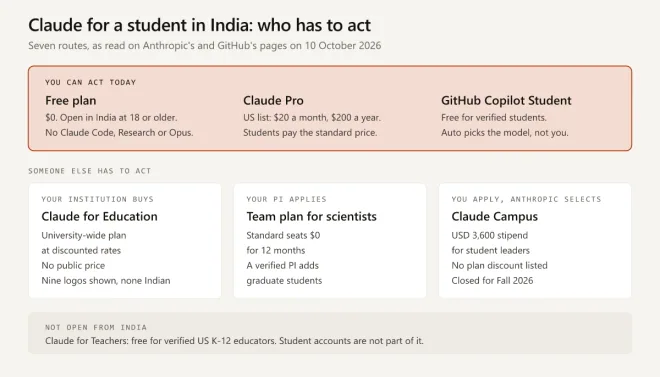
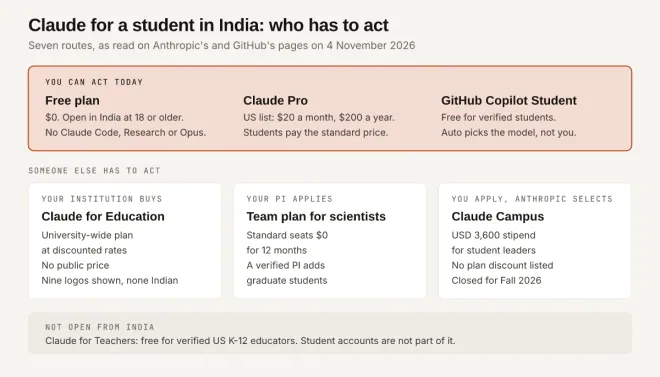
Refresh 6 posts: claude-student-discount-india, elevenlabs, notion AI, llm-optimization, seo-ranking, CI analysis
Final commit of lane G: claude-student-discount-india (Pro/Max/Ultra wording,
Artifact promo removed, dates and diagram restamped), image manifest from the
build, and the lane-g handoff. chatgpt-go-free-india and chatgpt-go-vs-gemini
were skipped: OpenAI's pages return a Cloudflare challenge to the cloud VM.

Claude-Session: https://claude.ai/code/session_017hxqprqjDNvD1JShTkYFD1

diff --git a/src/content/blog/claude-student-discount-india.md b/src/content/blog/claude-student-discount-india.md
@@ -1,30 +1,31 @@
 ---
 title: "Claude Student Discount India: What Exists and What Doesn't"
-description: "As of 10 October 2026 there is no Claude student discount Indian students can claim on Pro or Max. See the seven routes that do exist and who has to act on each."
+description: "As of 4 November 2026 there is no Claude student discount Indian students can claim on Pro, Max or Ultra. See the seven routes that exist and who acts on each."
 publishDate: 2026-10-10
+updatedDate: 2026-11-04
 category: [AI, Tools]
 img: /assets/stock-4.webp
 img_alt: "Renaissance-style study of an orrery and geometric instruments on a scholar's table, a red thread tracing an orbit"
 faqs:
   - q: "Is Claude free for students in India?"
-    a: "On your own, only through the Free plan, which is open to anyone aged 18 or over in a supported location such as India. As of October 2026 Anthropic's pricing page lists no Claude student plan. The no-cost routes to paid features run through someone else: an institution that has bought Claude for Education, or a verified principal investigator who adds you to the Team plan for scientists."
+    a: "On your own, only through the Free plan, which is open to anyone aged 18 or over in a supported location such as India. As of November 2026 Anthropic's pricing page lists no Claude student plan. The no-cost routes to paid features run through someone else: an institution that has bought Claude for Education, or a verified principal investigator who adds you to the Team plan for scientists."
   - q: "Is there a Claude Code student discount in India?"
-    a: "No. Claude Code is included in every paid Claude plan, so its price is the plan's price: as of October 2026 Anthropic's US list price for Pro is $20 a month, or $200 for a year billed up front. The Free plan does not include Claude Code."
+    a: "No. Claude Code is included in every paid Claude plan, so its price is the plan's price: as of November 2026 Anthropic's US list price for Pro is $20 a month, or $200 for a year billed up front. The Free plan does not include Claude Code."
   - q: "Does a Claude Builder Club give free Claude Pro?"
-    a: "Not according to Anthropic's Claude Campus page, which does not mention Claude Pro. It says club leaders share resources such as API credits with members and receive a USD 3,600 cash stipend, and on 10 October 2026 it said the program is closed for Fall 2026."
+    a: "Not according to Anthropic's Claude Campus page, which does not mention Claude Pro. It says club leaders share resources such as API credits with members and receive a USD 3,600 cash stipend, and on 4 November 2026 it still said the program is closed for Fall 2026."
   - q: "What is the Claude Pro price in India for students?"
     a: "The same as for everyone else: there is no student price. Anthropic's Pro plan article lists $20 a month in the US, with pricing in your local currency where supported, and says the current price for your region is shown at claude.ai/upgrade or in your mobile app store. Annual billing costs less than paying monthly."
   - q: "Can students get Claude free through GitHub?"
-    a: "Not as a Claude subscription. GitHub's Copilot Student plan is free for verified students, but as of October 2026 GitHub's docs say its models are available through auto model selection only, so you cannot pick a Claude model, and third-party agents such as the Anthropic Claude coding agent are excluded."
+    a: "Not as a Claude subscription. GitHub's Copilot Student plan is free for verified students, but as of November 2026 GitHub's docs say its models are available through auto model selection only, so you cannot pick a Claude model, and third-party agents such as the Anthropic Claude coding agent are excluded."
 ---
 
-"We do not offer standard discounted pricing for any of our paid plans, including Pro plans," says Anthropic's [Pro plan help article](https://support.claude.com/en/articles/8325606-what-is-the-pro-plan). For a student in India, that is the direct answer to "Claude student discount India": no individual plan carries a student price. My advice is to stop hunting for a promo code and ask the person who can sign: someone in the office that buys software for your institution, or the faculty member who runs your research group.
+"We don't offer standard discounted pricing for individual plans (Pro, Max, and Ultra)," says Anthropic's [Pro plan help article](https://support.claude.com/en/articles/8325606-what-is-the-pro-plan). For a student in India, that is the direct answer to "Claude student discount India": no individual plan carries a student price. My advice is to stop hunting for a promo code and ask the person who can sign: someone in the office that buys software for your institution, or the faculty member who runs your research group.
 
-Anthropic lists no student price for Claude Pro or Max, in India or anywhere else, as of 10 October 2026. A student in India can use the Free plan, pay the standard price with the annual billing discount, or get Claude through an institution or research group that provides it.
+Anthropic lists no student price for Claude Pro, Max or Ultra, in India or anywhere else, as of 4 November 2026. A student in India can use the Free plan, pay the standard price with the annual billing discount, or get Claude through an institution or research group that provides it.
 
-Seven routes to Claude for students in India, each checked on 10 October 2026 against the page that defines it:
+Seven routes to Claude for students in India, each rechecked on 4 November 2026 against the page that defines it:
 
-| Route | What the vendor's page says | Who has to act | For a student in India, 10 October 2026 |
+| Route | What the vendor's page says | Who has to act | For a student in India, as of November 2026 |
 |---|---|---|---|
 | Free plan | "$0", "Free for everyone" ([Claude pricing page](https://claude.com/pricing)) | You | Open at 18 or older; India is on Anthropic's [list of supported locations](https://support.claude.com/en/articles/8461763-where-can-i-access-claude) |
 | Claude Pro | "Per month with annual subscription discount ($200 billed up front). $20 if billed monthly.", beside a $17 figure on the pricing page | You | Open, at the same price as any other buyer in India; rupee prices by checkout are in [my Claude Pro price in India breakdown](/blog/claude-pro-price-in-india/) |
@@ -34,15 +35,15 @@ Seven routes to Claude for students in India, each checked on 10 October 2026 ag
 | Claude for Teachers | "free for verified US K-12 educators" and "for educators, not students" ([setup article](https://support.claude.com/en/articles/16559896-set-up-claude-for-teachers-for-your-school-or-district)) | A US teacher, school or district | Not open |
 | GitHub Copilot Student | "Available to verified students", with "Auto model selection only" ([GitHub's Copilot plans page](https://docs.github.com/en/copilot/get-started/plans)) | You, through GitHub Education | Open to verified students, but it is GitHub's assistant and you cannot pick a Claude model |
 
-In that table, annual billing is the only price reduction on a paid Claude plan that you can turn on yourself. The other reduced Claude prices are granted to an institution, to a verified principal investigator or to US K-12 educators. Each quote is the page as it was served, logged out, to a connection in India on 10 October 2026. Program windows and prices change, so recheck the page for your route before you act on it.
+In that table, annual billing is the only price reduction on a paid Claude plan that you can turn on yourself. The other reduced Claude prices are granted to an institution, to a verified principal investigator or to US K-12 educators. Each quote is the page as it was served, logged out, on 4 November 2026. Program windows and prices change, so recheck the page for your route before you act on it.
 
-<img src="/assets/blog/claude-student-discount-india/who-has-to-act.webp" alt="Diagram of seven Claude routes for a student in India as of 10 October 2026, grouped by who has to act: the Free plan, Claude Pro at a US list price of $20 a month or $200 a year and GitHub Copilot Student are routes you take yourself; Claude for Education is bought by your institution; the Team plan for scientists is applied for by your principal investigator; Claude Campus pays selected student leaders a USD 3,600 stipend and is closed for Fall 2026; Claude for Teachers is for verified US K-12 educators" title="Claude for a student in India: who has to act on each route" width="1200" height="686" loading="lazy" decoding="async" />
+<img src="/assets/blog/claude-student-discount-india/who-has-to-act.webp" alt="Diagram of seven Claude routes for a student in India as of 4 November 2026, grouped by who has to act: the Free plan, Claude Pro at a US list price of $20 a month or $200 a year and GitHub Copilot Student are routes you take yourself; Claude for Education is bought by your institution; the Team plan for scientists is applied for by your principal investigator; Claude Campus pays selected student leaders a USD 3,600 stipend and is closed for Fall 2026; Claude for Teachers is for verified US K-12 educators" title="Claude for a student in India: who has to act on each route" width="1200" height="686" loading="lazy" decoding="async" />
 
 ## Does Claude Have a Student Discount?
 
-No, not for an individual. As of 10 October 2026, none of the Anthropic pages linked here shows a student price, a student verification step or a student discount code for a Claude plan.
+No, not for an individual. As of 4 November 2026, none of the Anthropic pages linked here shows a student price, a student verification step or a student discount code for a Claude plan.
 
-The sentence this page opens with sits in the Pro article under the heading "How can I get a free or discounted Pro plan?" (the page's metadata dates its last change to 22 September 2026), and the [Max plan article](https://support.claude.com/en/articles/11049741-what-is-the-max-plan) repeats it for Max 5x and Max 20x. Both add two limits: "We occasionally run limited-time promotions, but we don't have any standing discounts available upon request", and "Our Support team cannot issue one-off discounts or coupons."
+The sentence this page opens with sits in the Pro article under the heading "How can I get a free or discounted Pro plan?" (the page's metadata dates its last change to 30 October 2026), and the [Max plan article](https://support.claude.com/en/articles/11049741-what-is-the-max-plan) repeats it word for word. As of November 2026 the pricing page lists three paid individual plans: Pro at $20, Max at $100 and Ultra at $200 a month, billed monthly. Both articles add two limits: "We occasionally run limited-time promotions, but we don't have any standing discounts available upon request", and "Our Support team cannot issue one-off discounts or coupons."
 
 Anthropic does use the word discount on the pages below, and on none of them is it a student-only price on an individual plan:
 
@@ -51,23 +52,20 @@ Anthropic does use the word discount on the pages below, and on none of them is 
 | Pro on annual billing | "annual subscription discount", on the pricing page | Anyone who pays for a year up front |
 | Education plan | "Comprehensive access for all university members at discounted rates", on the pricing page | An institution that buys the plan |
 | Team plan for scientists | "this discounted Claude Team plan", in the program page's FAQ | A verified principal investigator's research group |
-| Usage bundles | "Larger bundles come with bigger discounts" ([Buy usage bundles](https://support.claude.com/en/articles/14246112-buy-usage-bundles)) | Pro, Max and Team subscribers who prepay for usage credits |
-| Artifact usage promotion | After Claude creates or edits an artifact, "a portion of the work that follows uses 50% less of your five-hour session limit", and "After the discount period ends, messages count at the standard rate", from 1 to 15 October 2026 ([promotion article](https://support.claude.com/en/articles/17274727-artifact-usage-promotion)) | Pro, Max and Team plans, and Free plans from 7 October |
-
-The last row is the promotion that was running on the day I checked: it is published in the help center, it has an end date, and its FAQ says "There's no code or setting to turn on."
+| Usage bundles | "Larger bundles come with bigger discounts" ([Buy usage bundles](https://support.claude.com/en/articles/14246112-buy-usage-bundles)) | Pro, Max, Ultra and Team subscribers who prepay for usage credits |
 
 ## What Claude's Help Center Returns for India and Student Discount
 
-I ran four searches on Anthropic's help center on 10 October 2026:
+Four searches on Anthropic's help center, run on 4 November 2026:
 
 | Search | Results | What came back |
 |---|---|---|
 | [India](https://support.claude.com/en/?q=India) | 1 | "Where can I access Claude?", the list of supported locations, with India on it |
-| [student discount](https://support.claude.com/en/?q=student+discount) | 10 | Two Claude for Teachers articles, two Claude for Education articles, the Artifact usage promotion, usage bundles, two invoice explainers, identity verification and the Cyber Verification Program |
+| [student discount](https://support.claude.com/en/?q=student+discount) | 10 | Two Claude for Teachers articles, two Claude for Education articles, the Team plan for scientists, usage bundles, two invoice explainers, identity verification and the Cyber Verification Program |
 | [student](https://support.claude.com/en/?q=student) | 6 | The same Teachers and Education articles, identity verification, and the Team plan for scientists |
 | [coupon](https://support.claude.com/en/?q=coupon) | 9 | First result: "Why is a coupon or promotion not available for my account?" |
 
-None of the four returned an article with a student price for an individual plan. The "student discount" search matched the two words separately: five results on student and five on discount. The student hits are the Claude for Education and Claude for Teachers articles and an identity verification article that lists student IDs among the documents it does not accept. The discount hits are the Artifact usage promotion, usage bundles, two invoice explainers and a "contracted discount" in the Cyber Verification Program.
+None of the four returned an article with a student price for an individual plan. The "student discount" search matched the two words separately: five results on student and five on discount. The student hits are the Claude for Education and Claude for Teachers articles and an identity verification article that lists student IDs among the documents it does not accept. The discount hits are usage bundles, the Team plan for scientists article, two invoice explainers and a "contracted discount" in the Cyber Verification Program.
 
 ## Claude Student Discount India: What Each Route Needs From You
 
@@ -87,7 +85,7 @@ When Free runs out in the middle of an assignment, my guide to [the four ways ba
 ### Claude Pro Student Discount in India: Standard Price, Annual Billing Only
 
 - **The price.** The Pro article says the plan costs "$20 per month (US), with pricing in your local currency where supported", adds that "Annual subscriptions are billed once yearly at a discounted rate", and tells you to "Visit claude.ai/upgrade or check your mobile app store for current pricing in your region." The Claude Pro price breakdown linked in the route table has the rupee figures by checkout, the annual-plan arithmetic and Claude Pro against ChatGPT Go in India.
-- **Promotions.** Anthropic's [coupon article](https://support.claude.com/en/articles/11107691-why-is-a-coupon-or-promotion-not-available-for-my-account), dated 16 March 2026, says "Coupons and promotions are generally only available to users trying out a paid plan for the first time." It adds that App Store subscribers on iOS or Android "are unable to take advantage of promotions at this time". By that article, a coupon or promotion generally needs a first paid subscription bought directly, outside the app stores. The Artifact usage promotion of 1 to 15 October 2026 works differently: its article says "If you're on an eligible plan, the discount applies to your account automatically." OpenAI's own India promotion, a free year of ChatGPT Go, no longer takes new sign-ups, and if you redeemed it, [what you are charged when that free year ends](/blog/chatgpt-go-free-india/) depends on where you signed up.
+- **Promotions.** Anthropic's [coupon article](https://support.claude.com/en/articles/11107691-why-is-a-coupon-or-promotion-not-available-for-my-account), dated 16 March 2026, says "Coupons and promotions are generally only available to users trying out a paid plan for the first time." It adds that App Store subscribers on iOS or Android "are unable to take advantage of promotions at this time". By that article, a coupon or promotion generally needs a first paid subscription bought directly, outside the app stores. OpenAI's own India promotion, a free year of ChatGPT Go, no longer takes new sign-ups, and if you redeemed it, [what you are charged when that free year ends](/blog/chatgpt-go-free-india/) depends on where you signed up.
 - **Claude Code.** The pricing FAQ says "Claude Code is included in all paid plans", so there is no separate Claude Code price to discount. What else each plan includes is in [Claude vs Claude Code, plan by plan](/blog/claude-vs-claude-code/).
 
 If the choice is Claude Pro or ChatGPT Plus, [Claude and ChatGPT compared job by job, with Pro against Plus](/blog/claude-vs-chatgpt/) covers it.
@@ -99,7 +97,7 @@ The pricing page lists Claude for Education as the "Education plan", and that bl
 | Question | What Anthropic's pages show |
 |---|---|
 | Which institutions appear on the education page? | Nine, by logo: University of San Francisco, London School of Economics and Political Science, Northeastern University, Champlain College, Northumbria University Newcastle, Syracuse University, Dartmouth, University of Virginia and University of Pittsburgh. None is Indian, and the page's text does not mention India |
-| How would you know you have it? | The [guide for students and faculty](https://support.claude.com/en/articles/11139144-use-claude-for-education-at-your-university), dated 9 September 2026, describes access "through your university-sponsored account" and says "Sign in with your university email." |
+| How would you know you have it? | The [guide for students and faculty](https://support.claude.com/en/articles/11139144-use-claude-for-education-at-your-university), last updated 13 October 2026, describes access "through your university-sponsored account" and says "Sign in with your university email." |
 | What if that email already has a personal Claude account? | "you can select between your previous account and the new university-sponsored account" |
 
 Anthropic's [16 February 2026 Bengaluru office announcement](https://www.anthropic.com/news/bengaluru-office-partnerships-across-india) says educational and instructional tasks make up **12%** of Claude.ai use in India and, under the heading "Reaching students in low-income communities", names partnerships with Pratham and Central Square Foundation. It announces no university plan and no student price for India.
@@ -114,10 +112,10 @@ Anthropic's [16 February 2026 Bengaluru office announcement](https://www.anthrop
 | Can a student in India apply? | Yes when applications are open, by the page's wording: "Students anywhere in the world can apply to any of our programs. However, our Grad and PhD programs may select from a smaller pool of schools during the initial pilot period." |
 | What are the conditions? | "You'll need to be 18+ and have work authorization in your country of study to participate in the program." |
 | What does it cost? | "It's free to apply and free to participate." |
-| Is it open on 10 October 2026? | No: "The program is closed for Fall 2026". The page lists "Applications open September 1 and close September 12" and a program that "runs from September 2026 to June 2027", and gives no date for another round |
+| Is it open as of November 2026? | No, as read on 4 November 2026: "The program is closed for Fall 2026". The page lists "Applications open September 1 and close September 12" and a program that "runs from September 2026 to June 2027", and gives no date for another round |
 | Who runs it? | "Claude Campus Ambassadors is run by Anthropic, with programmatic support from an external agency." |
 
-On Anthropic's [Education contact page](https://claude.com/contact-sales/education-plan), the two links under "For students" are "Apply to be a Claude Campus Ambassador" and "Sign up to be a Student Builder". When I followed them on 10 October 2026, both redirected to the Campus page, which is closed for Fall 2026, so neither link is a separate way in. The Campus page does not say what proof of work authorization it asks for.
+On Anthropic's [Education contact page](https://claude.com/contact-sales/education-plan), the two links under "For students" are "Apply to be a Claude Campus Ambassador" and "Sign up to be a Student Builder". On 4 November 2026 both redirected to the Campus page, which is closed for Fall 2026, so neither link is a separate way in. The Campus page does not say what proof of work authorization it asks for.
 
 ### The Team Plan for Scientists: Free Seats Through Your PI
 
@@ -137,18 +135,18 @@ Claude for Teachers gives verified educators a year of free access if they sign 
 
 ## Is Claude Free for Students Through GitHub?
 
-Not as a Claude subscription, and not as a model you can pick. GitHub gives verified students its own Copilot Student plan at no charge, and as of 10 October 2026 that plan offers auto model selection only. GitHub's notices, in date order:
+Not as a Claude subscription, and not as a model you can pick. GitHub gives verified students its own Copilot Student plan at no charge, and as of November 2026 that plan offers auto model selection only. GitHub's notices, in date order:
 
 | Date | What GitHub published |
 |---|---|
-| 12 March 2026 | Students moved to "a new GitHub Copilot Student plan", and "some premium models, including GPT-5.3-Codex, GPT-5.4, and Claude Opus and Sonnet models, will no longer be available for self-selection" ([GitHub's announcement](https://github.com/orgs/community/discussions/189268)) |
+| 11 March 2026 | From 12 March, students moved to "a new GitHub Copilot Student plan", and "some premium models, including GPT-5.3-Codex, GPT-5.4, and Claude Opus and Sonnet models, will no longer be available for self-selection" ([GitHub's announcement](https://github.com/orgs/community/discussions/189268)) |
 | 24 June 2026 | "Copilot Free and Student plans will now use Copilot auto model selection as the default and only model selection experience." ([GitHub changelog](https://github.blog/changelog/2026-06-24-changes-to-model-selection-for-free-and-student-plans/)) |
-| 10 October 2026, as read | The plans page lists Copilot Student as "Free", with "An allowance of GitHub AI Credits", "Excludes third-party agents" and "Auto model selection only" |
+| 4 November 2026, as read | The plans page lists Copilot Student as "Free", with "An allowance of GitHub AI Credits", "Excludes third-party agents" and "Auto model selection only" |
 
 What that leaves a student who wants Claude:
 
-- Auto may route a prompt to a Claude model. GitHub's 12 March notice said that through Auto mode students "continue to have access to a powerful set of models from providers such as OpenAI, Anthropic, and Google". Its [auto model selection docs](https://docs.github.com/en/copilot/concepts/models/auto-model-selection) say Auto "chooses from supported models, subject to your policies and subscription type", and the supported-models table they link to includes several Claude models.
-- The Claude coding agent is excluded. GitHub's [Anthropic Claude agent page](https://docs.github.com/en/copilot/concepts/agents/anthropic-claude) says "Anthropic Claude is available in paid Copilot plans", and the plans page marks third-party agents as not included on Copilot Student.
+- Auto may route a prompt to a Claude model. GitHub's 11 March notice said that through Auto mode students "continue to have access to a powerful set of models from providers such as OpenAI, Anthropic, and Google". Its [auto model selection docs](https://docs.github.com/en/copilot/concepts/models/auto-model-selection) say Auto "chooses from supported models, subject to your policies and subscription type", and the supported-models table they link to includes several Claude models.
+- The Claude coding agent is excluded. GitHub's [third-party coding agents page](https://docs.github.com/en/copilot/concepts/agent-capabilities/about-agents/about-third-party-coding-agents) lists the Anthropic Claude coding agent, in public preview, under "Available for all paid Copilot plans", and the plans page says Copilot Student "Excludes third-party agents".
 - The Student Developer Pack has no Anthropic offer. On the [pack page](https://education.github.com/pack), the word Claude appears once, inside another vendor's offer that names Claude Code as a client.
 - Eligibility is broad. GitHub's [student application page](https://docs.github.com/en/education/about-github-education/github-education-for-students/apply-to-github-education-as-a-student) asks that you are "enrolled in a degree- or diploma-granting program", can prove current student status and are "at least 13 years old".
 - Activation can lag approval. The [student setup page](https://docs.github.com/en/copilot/how-tos/copilot-on-github/set-up-copilot/enable-copilot/set-up-for-students) warns: "If only paid options appear, do not complete a purchase. Wait a few days and try again."
@@ -157,7 +155,7 @@ Copilot Student is worth claiming if you write code. Cursor's student route is s
 
 ## Five Claude Student Discount Claims, Checked Against Primary Pages
 
-| Claim | What the primary page says | Verdict on 10 October 2026 |
+| Claim | What the primary page says | Verdict as of November 2026 |
 |---|---|---|
 | A promo code gets students Claude Pro for less | The Pro article says promotions "are typically announced through our official channels when available", and the coupon article says they are generally only available to first-time subscribers | No student code on any Anthropic page I read; a real promotion is announced by Anthropic |
 | A college or .edu email unlocks a student price | No Anthropic page I read describes a way to verify student status for a discount. A university email is the sign-in for a plan the institution has already set up | Not supported |
@@ -165,7 +163,7 @@ Copilot Student is worth claiming if you write code. Cursor's student route is s
 | A Claude Builder Club gives members free Claude Pro | The Campus page does not mention Pro, Max or any subscription, and puts no amount on the API credits a club leader may share | Not on the page; what a club gives its members is for that club to confirm |
 | Anthropic turned down a discount for Indian students | [Issue #67092](https://github.com/anthropics/claude-code/issues/67092) in the Claude Code repository, a request that included a 50% discount for verified Indian students, was opened on 10 June 2026. An automated account labelled it "invalid" ("Issue doesn't seem to be related to Claude Code") and closed it on 13 June with the comment "this doesn't appear to be about Claude Code" | Automated triage of an off-topic issue; the comment says nothing about pricing |
 
-Gift subscriptions "are currently unavailable to purchase" as of 10 October 2026, per Anthropic's [gifting article](https://support.claude.com/en/articles/12938627-how-to-gift-a-claude-subscription), so a relative cannot buy you a plan as a gift from Anthropic today. Anthropic also publishes the addresses its marketing email comes from, all "ending in anthropic.com or claude.com" ([official list](https://support.claude.com/en/articles/10416553-official-anthropic-marketing-email-addresses)), so a discount email from any other domain is not Anthropic's marketing.
+Gift subscriptions "are currently unavailable to purchase" as of 4 November 2026, per Anthropic's [gifting article](https://support.claude.com/en/articles/12938627-how-to-gift-a-claude-subscription), so a relative cannot buy you a plan as a gift from Anthropic today. Anthropic also publishes the addresses its marketing email comes from, all "ending in anthropic.com or claude.com" ([official list](https://support.claude.com/en/articles/10416553-official-anthropic-marketing-email-addresses)), so a discount email from any other domain is not Anthropic's marketing.
 
 ## Claude Student Discount India: Ask the Person Who Can Sign
 

diff --git a/.claude/cloud-handoff/lane-g.md b/.claude/cloud-handoff/lane-g.md
@@ -1,0 +1,46 @@
+# Lane G handoff - fact refresh of existing posts (4 November 2026)
+
+Branch: `cloud/lane-g`. Six posts edited, no new posts. `npm run build` exit 0. KIT gates 1-5 pass on all six (ASCII clean, TROPE PASS, CLAIM PASS, title/description in band, no HTML comments).
+
+## Skipped: items 1 and 3 (OpenAI pages unreadable from the cloud VM)
+- `chatgpt-go-free-india` and `chatgpt-go-vs-gemini` were NOT refreshed. Every OpenAI host (openai.com, help.openai.com, chatgpt.com/pricing) returns HTTP 403 with `cf-mitigated: challenge` (Cloudflare bot check) to both curl and WebFetch from this VM. The network itself is open (anthropic.com, notion.com, elevenlabs.io, semrush.com, bing.com all 200), so this is not a network-policy problem and a Full-network environment will not fix it. Getting past the bot check was not attempted.
+- Both posts still need the 4 November 2026 refresh (first free Go years end; renewal price, auto-renew, whether the offer still runs for new users; Jio's Gemini offer closed 29 October 2026). Do it from the author's machine, where OpenAI's pages load.
+
+## claude-student-discount-india (updatedDate -> 2026-11-04)
+- Main answer unchanged: no student price on any individual Claude plan, so no dated note at the top.
+- Anthropic's Pro article now reads "We don't offer standard discounted pricing for individual plans (Pro, Max, and Ultra)" (curl-confirmed). Pricing page: Pro $20, Max $100, Ultra $200 a month. Wording updated to "Pro, Max or Ultra"; usage bundles now cover Pro, Max, Ultra and Team.
+- Removed the Artifact usage promotion row and its two mentions (its help article now 404s).
+- Updated help-center search results, the GitHub announcement date, the moved GitHub agents docs URL, the article dates, and the "10 October" stamps -> 4 November 2026. Removed an old "served to a connection in India" line (KIT section 0).
+- Diagram `who-has-to-act.svg` subtitle date changed; WebP and 660w re-rendered and viewed; `src/data/image-manifest.json` updated by the build.
+- Two GitHub sources were confirmed through WebFetch only (github.com blocks curl here).
+- URLs: https://support.claude.com/en/articles/8325606-what-is-the-pro-plan, https://support.claude.com/en/articles/11049741-what-is-the-max-plan, https://claude.com/pricing, https://claude.com/programs/campus, https://claude.com/programs/team-plan-for-scientists, https://claude.com/solutions/education, https://support.claude.com/en/articles/11139144-use-claude-for-education-at-your-university, https://support.claude.com/en/articles/14246112-buy-usage-bundles, https://docs.github.com/en/copilot/get-started/plans, https://docs.github.com/en/copilot/concepts/agent-capabilities/about-agents/about-third-party-coding-agents, https://gemini.google/in/students/?hl=en-IN
+- Next refresh: 4 December 2026, then 31 December 2026 (Gemini student offer redeem deadline).
+
+## elevenlabs-price-in-india (updatedDate -> 2026-11-04)
+- The Starter promo is still on the page: elevenlabs.io/pricing showed "Starter $1 first month Then $6 per month" on 4 Nov 2026 (curl-confirmed), but the "Until Nov 1" label is gone and no end date is shown. The post now says the offer was "still shown as of November 2026 with no end date".
+- The rupee conversion now uses RBI's rate for 4 Nov 2026, Rs 94.8416 (was Rs 94.9432 for 23 Oct). The conversion table, FAQ 1, App Store gap (Rs 212, 10.2%) and per-minute rupee column were recomputed, still labelled as arithmetic.
+- Added the Dubbing Studio watermark rate (5,000 credits a minute). Removed the "logged out from an Indian connection" wording. India App Store and Google Play (gl=IN) rupee prices are unchanged from 25 Oct.
+- URLs: https://elevenlabs.io/pricing, https://www.rbi.org.in/, https://apps.apple.com/in/app/elevenlabs-ai-voice-generator/id6743162587, https://play.google.com/store/apps/details?id=io.elevenlabs.coreapp&hl=en_IN&gl=IN, https://elevenlabs.io/docs/overview/administration/billing, https://elevenlabs.io/docs/help-center/account/payment-billing/can-i-pay-for-my-eleven-labs-subscription-in-inr
+- Next refresh: 4 December 2026 (check whether the Starter $1 offer has gone).
+
+## is-notion-ai-free (updatedDate -> 2026-11-04)
+- Main answer unchanged (Notion AI is free only as a trial, and comes included on Business and Enterprise).
+- Credit system: Notion's 19 Oct blog says "Existing customers move over on November 2". No Notion page confirms the move happened, so the post says existing customers "were due to" move. The help pages give 1,500 Standard + 500 Select credits a month on Business/Enterprise.
+- Removed the old first-person "checked from an Indian connection" wording and the FAQ line "USD only when opened from India" (cannot be reproduced from a US VM; KIT section 0). The post now says notion.com labels prices "Price in USD" and does not mention India or GST. Apple India App Store rupee prices are unchanged and stamped as of November 2026.
+- The author may want to restore the India-currency check if re-done from India.
+- URLs: https://www.notion.com/blog/notion-ai-more-for-less, https://www.notion.com/help/what-are-notion-credits, https://www.notion.com/help/manage-your-ai-credits, https://www.notion.com/help/standard-select-and-notion-credits-eligible-features, https://www.notion.com/help/notion-ai-faqs, https://apps.apple.com/in/app/notion-notes-tasks-ai/id1232780281
+- Next refresh: about 3 December 2026 (AI Meeting Notes start using credits on 1 December).
+
+## llm-optimization (updatedDate -> 2026-11-04)
+- Replaced "There is no Google Search Console for LLMs yet" (body and FAQ) with Bing Webmaster Tools' AI Performance report: public preview since 10 February 2026, counting citations in Microsoft Copilot, AI-generated summaries in Bing and select partner integrations, with a Topics Portfolio beta added on 13 October 2026. The lane-e post `bing-ai-performance-report` is not on origin/main, so the fix links Microsoft's pages. Once lane-e merges, the merge session can swap the first link for `/blog/bing-ai-performance-report/`.
+- Fixed three gate failures that were already in the post: a superlative claim against llmstxt.org, the non-ASCII "≥" in the checklist table, and a reasoning-leak phrase.
+- URLs: https://blogs.bing.com/webmaster/2026/2/Introducing-AI-Performance-in-Bing-Webmaster-Tools-Public-Preview/, https://blogs.bing.com/webmaster/2026/10/introducing-topics-portfolio-beta-in-ai-performance/
+- Next refresh: when AI Performance leaves public preview, or by February 2027.
+
+## how-do-i-check-my-seo-ranking (updatedDate 2026-09-10 -> 2026-11-04)
+- Replaced the old Semrush Pro/Guru plan names with the current plans from https://www.semrush.com/pricing/ (redirects to /pricing/seo-ai-search/), checked 4 Nov 2026: SEO $139/mo (5 websites, 500 keywords tracked daily, Position Tracking), Starter SEO + AI Search $199/mo, Pro+ SEO + AI Search $299/mo (15 websites, 1,500 keywords, historical SEO data, keyword cannibalization analysis). The comparison table's historical-data cell now says "Pro+ SEO + AI Search".
+- Not touched: the unsourced "2-3 day delay" lines (logged earlier as an OPTIMIZE item).
+- Next refresh: February 2027.
+
+## competitive-intelligence-analysis (updatedDate unchanged)
+- The second link to /blog/competitive-battlecard-template/ (closing section) is now plain text ("the competitive battlecard template linked above"). Link fix only, no fact change.
